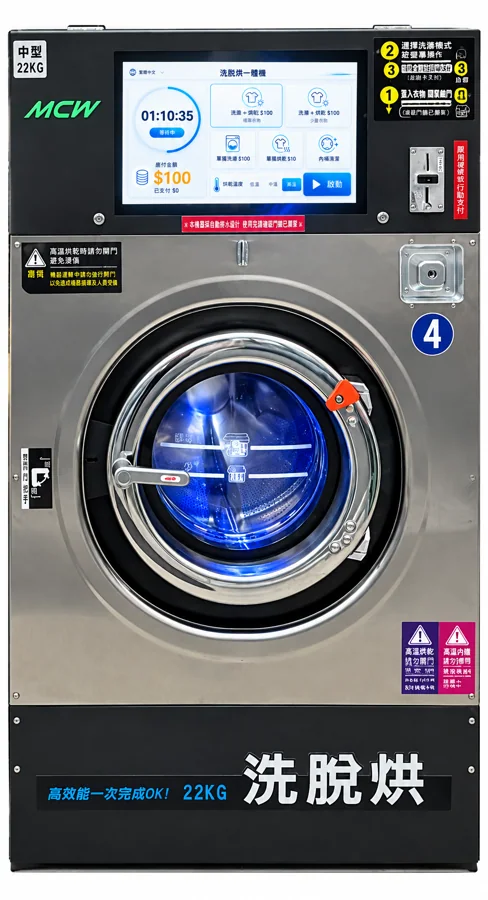
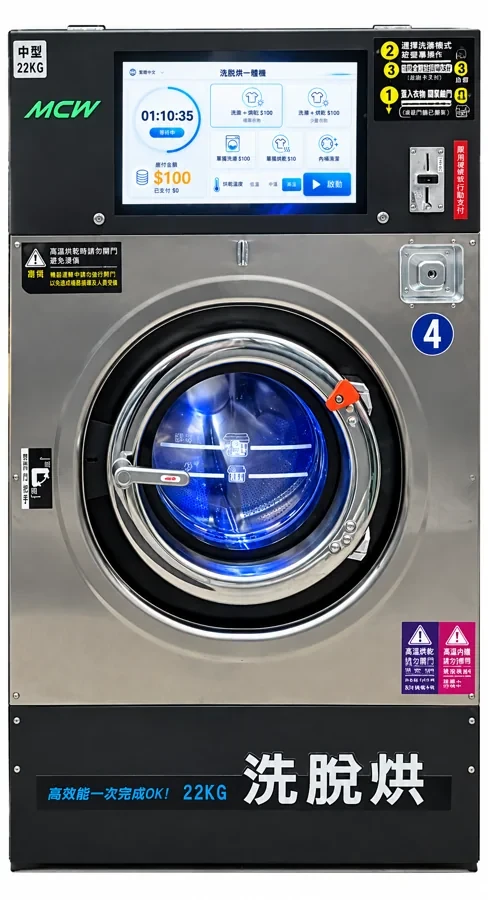
更新洗衣地圖公開名稱、教學入口與加盟頁內容
公開名稱改為 MCW自助洗衣地圖。教學新增會員儲值點數，洗脫烘實拍去掉螢幕下方紅框。加盟頁改用指定六色主圖與藍色 22KG 設備圖，詢問加盟與頁首改接官方 LINE。

Changed region(s): [[0.3689, 0.2178, 0.6455, 0.28], [0.9221, 0.0622, 0.9529, 0.0933]]

diff --git a/laundry-map/src/main.jsx b/laundry-map/src/main.jsx
@@ -62,6 +62,12 @@ const emptyStore = () => ({
   provider: "unconnected",
   providerReference: "",
 });
+const OFFICIAL_LINE_URL = "https://lin.ee/s4v3cIG";
+const BUSINESS_LINE_URL = "https://line.me/ti/p/~mcw27";
+const tutorialCategories = ["洗脫烘", "雙層烘", "付款", "會員儲值點數"];
+function officialLineUrl(settings) {
+  return settings?.lineUrl || OFFICIAL_LINE_URL;
+}
 function LinkButton({ url, children }) {
   return url ? (
     <a className="button" href={url} target="_blank" rel="noopener noreferrer">
@@ -71,6 +77,32 @@ function LinkButton({ url, children }) {
     <span className="button disabled" aria-disabled="true">
       {children}・尚未設定
     </span>
+  );
+}
+function LineMark() {
+  return (
+    <span className="line-mark" aria-hidden="true">
+      <svg viewBox="0 0 24 24">
+        <path
+          fill="#fff"
+          d="M19.365 9.863c.349 0 .63.285.63.631 0 .345-.281.63-.63.63H17.61v1.125h1.755c.349 0 .63.283.63.63 0 .344-.281.629-.63.629h-2.386c-.345 0-.627-.285-.627-.629V8.108c0-.345.282-.63.63-.63h2.386c.346 0 .627.285.627.63 0 .349-.281.63-.63.63H17.61v1.125h1.755zm-3.855 3.016c0 .27-.174.51-.432.596-.064.021-.133.031-.199.031-.211 0-.391-.09-.51-.25l-2.443-3.317v2.94c0 .344-.279.629-.631.629-.346 0-.626-.285-.626-.629V8.108c0-.27.173-.51.43-.595.06-.023.136-.033.194-.033.195 0 .375.104.495.254l2.462 3.33V8.108c0-.345.282-.63.63-.63.345 0 .63.285.63.63v4.771zm-5.741 0c0 .344-.282.629-.631.629-.345 0-.627-.285-.627-.629V8.108c0-.345.282-.63.63-.63.346 0 .628.285.628.63v4.771zm-2.466.629H4.917c-.345 0-.63-.285-.63-.629V8.108c0-.345.285-.63.63-.63.348 0 .63.285.63.63v4.141h1.756c.348 0 .629.283.629.63 0 .344-.282.629-.629.629M24 10.314C24 4.943 18.615.572 12 .572S0 4.943 0 10.314c0 4.811 4.27 8.842 10.035 9.608.391.082.923.258 1.058.59.12.301.079.766.038 1.08l-.164 1.02c-.045.301-.24 1.186 1.049.645 1.291-.539 6.916-4.078 9.436-6.975C23.176 14.393 24 12.458 24 10.314"
+        />
+      </svg>
+    </span>
+  );
+}
+function OfficialLineButton({ url }) {
+  return (
+    <a
+      className="button line-join"
+      href={officialLineUrl({ lineUrl: url })}
+      target="_blank"
+      rel="noopener noreferrer"
+      aria-label="加入官方 LINE"
+    >
+      加入官方
+      <LineMark />
+    </a>
   );
 }
 function Fit({ points, focus, camera }) {
@@ -420,7 +452,7 @@ function StoreDetail({ store: s, settings, onBack, saved, toggle }) {
       if (navigator.share) {
         await navigator.share({
           title: s.name,
-          text: "MCW 洗衣地圖",
+          text: "MCW自助洗衣地圖",
           url: url.href,
         });
         setShareMsg("");
@@ -541,8 +573,8 @@ function StoreDetail({ store: s, settings, onBack, saved, toggle }) {
         <p>本店尚未配置操作教學影片。</p>
       )}
       <h2>一起經營好生活</h2>
-      <LinkButton url={s.franchiseUrl || settings.franchiseUrl}>
-        詢問洗衣加盟
+      <LinkButton url={officialLineUrl(settings)}>
+        詢問加盟
       </LinkButton>
     </section>
   );
@@ -643,10 +675,10 @@ function PublicApp() {
         <a className="brand" href="/">
           <img src="/brand/mcw-round-logo.png" alt="MCW 魔彩正式 Logo" />
           <span>
-            洗衣地圖<small>LAUNDRY MAP</small>
+            MCW自助洗衣地圖<small>LAUNDRY MAP</small>
           </span>
         </a>
-        <LinkButton url={settings.lineUrl}>官方 LINE</LinkButton>
+        <OfficialLineButton url={settings.lineUrl} />
       </header>
       <main
         className={
@@ -912,10 +944,10 @@ function PublicApp() {
                 </div>
                 <p className="eyebrow">MCW HOW-TO</p>
                 <h2>你的洗衣小幫手</h2>
-                {["洗脫烘", "雙層烘", "付款"].map((cat) => (
+                {tutorialCategories.map((cat, index) => (
                   <article className="tutorial" key={cat}>
                     <span className="tutorial-icon" aria-hidden="true">
-                      {cat === "洗脫烘" ? "01" : cat === "雙層烘" ? "02" : "03"}
+                      {String(index + 1).padStart(2, "0")}
                     </span>
                     <div>
                       <h3>{cat}操作教學</h3>
@@ -949,14 +981,11 @@ function PublicApp() {
               <section className="content-panel franchise">
                 <figure className="franchise-photo">
                   <img
-                    src="/brand/hualien-store-1.webp"
-                    alt="交接包提供的花蓮門市外觀實拍"
-                    width="1100"
-                    height="825"
+                    src="/brand/community-lineup.webp"
+                    alt="MCW 洗脫烘一體機，16、22、27、35KG，不鏽鋼色、珍珠白、無限藍、鈦銀、寶石紅、宇宙黑"
+                    width="1672"
+                    height="941"
                   />
-                  <figcaption>
-                    花蓮門市實拍 · 地址與營運資訊待總部確認
-                  </figcaption>
                 </figure>
                 <p className="eyebrow">START YOUR MCW JOURNEY</p>
                 <h2>
@@ -968,14 +997,52 @@ function PublicApp() {
                   想了解 MCW
                   洗衣設備、開店流程與加盟資訊？透過總部指定管道，開始你的開店計畫。
                 </p>
-                <LinkButton url={settings.franchiseUrl}>
-                  詢問洗衣加盟
+                <div className="franchise-pitch">
+                  <p>💎為什麼選擇 MCW 洗脫烘？</p>
+                  <p>
+                    頂級商用規格：機種款式尺寸齊全（16、22、27、35KG），多款時尚美學色彩供選擇（珍珠白、無限藍、鈦銀、寶石紅、宇宙黑、不銹鋼色）。
+                  </p>
+                  <p>
+                    💎 國際品質認證：通過 CE、ISO 9001、ISO 45001、ISO 14001
+                    國際認證，擁有多項技術專利，成功打入美國市場的高品質外銷機種。高效節能耐用，專為商用專業首選打造，讓洗衣體驗更聰明、更美好。
+                  </p>
+                  <p>💎 誠摯邀請您加入加盟合作行列！</p>
+                  <p className="franchise-contacts">
+                    <a
+                      href={officialLineUrl(settings)}
+                      target="_blank"
+                      rel="noopener noreferrer"
+                    >
+                      加入官方LINE：@mcw27
+                    </a>
+                    <a
+                      href={BUSINESS_LINE_URL}
+                      target="_blank"
+                      rel="noopener noreferrer"
+                    >
+                      業務LINE：mcw27
+                    </a>
+                    <a href="tel:077881902">加盟專線：07-788-1902</a>
+                  </p>
+                </div>
+                <figure className="franchise-equipment">
+                  <img
+                    src="/brand/mcw-22kg-blue.webp"
+                    alt="MCW 22KG 洗脫烘一體機"
+                    width="923"
+                    height="1704"
+                  />
+                </figure>
+                <LinkButton url={officialLineUrl(settings)}>
+                  詢問加盟
                 </LinkButton>
                 <div className="brand-guide">
                   <img src="/brand/mcw-cat.webp" alt="MCW 藍白貓咪吉祥物" />
                   <p>
                     從空間規劃到設備選擇，
                     <br />與 MCW 一起打造社區的洗衣好鄰居。
+                    <br />
+                    加盟MCW就是你的最佳選擇!
                   </p>
                 </div>
                 <p className="muted">
@@ -1561,7 +1628,7 @@ function Admin() {
                       updateItem("tutorials", i, "category", e.target.value)
                     }
                   >
-                    {["洗脫烘", "雙層烘", "付款"].map((x) => (
+                    {tutorialCategories.map((x) => (
                       <option key={x}>{x}</option>
                     ))}
                   </select>

diff --git a/laundry-map/src/style.css b/laundry-map/src/style.css
@@ -105,6 +105,22 @@ header {
   background: #091a30;
   gap: 16px;
 }
+.line-join {
+  flex: none;
+}
+.line-mark {
+  display: inline-grid;
+  place-items: center;
+  width: 22px;
+  height: 22px;
+  border-radius: 6px;
+  background: #06c755;
+}
+.line-mark svg {
+  width: 16px;
+  height: 16px;
+  display: block;
+}
 .brand {
   display: flex;
   align-items: center;
@@ -970,8 +986,38 @@ header {
 }
 .franchise-photo img {
   width: 100%;
-  height: 320px;
-  object-fit: cover;
+  height: auto;
+  object-fit: contain;
+  display: block;
+  background: #06101c;
+}
+.franchise-pitch {
+  display: grid;
+  gap: 10px;
+  margin: 8px 0 18px;
+}
+.franchise-pitch p {
+  margin: 0;
+  overflow-wrap: anywhere;
+}
+.franchise-contacts {
+  display: grid;
+  gap: 2px;
+}
+.franchise-contacts a {
+  display: inline-flex;
+  align-items: center;
+  width: fit-content;
+  max-width: 100%;
+  min-height: 44px;
+}
+.franchise-equipment {
+  width: min(100%, 420px);
+  margin: 4px auto 22px;
+}
+.franchise-equipment img {
+  width: 100%;
+  height: auto;
   display: block;
 }
 .franchise-photo figcaption {
@@ -1053,14 +1099,21 @@ header {
 @media (max-width: 700px) {
   header {
     padding: 10px 16px;
-    height: 68px;
+    height: auto;
+    min-height: 68px;
   }
   .brand > img {
     width: 42px;
     height: 42px;
   }
   .brand {
-    font-size: 0.95rem;
+    font-size: 0.82rem;
+    gap: 8px;
+    min-width: 0;
+  }
+  .line-join {
+    padding: 8px 10px;
+    font-size: 0.85rem;
   }
   .map-page {
     padding: 0 12px 24px;
@@ -1282,8 +1335,11 @@ header {
   }
   .franchise-photo img {
     height: auto;
-    aspect-ratio: 4 / 3;
+    aspect-ratio: auto;
     object-fit: contain;
+  }
+  .franchise-pitch p {
+    font-size: 0.92rem;
   }
   .franchise-photo figcaption {
     font-size: 0.62rem;

diff --git a/laundry-map/tests/app.test.js b/laundry-map/tests/app.test.js
@@ -175,6 +175,30 @@ test("image upload decodes actual bytes, strips metadata and rejects malformed i
   assert.equal(response.status, 200);
   assert.match(response.headers.get("content-type"), /webp/);
 });
+test("member points tutorial category is allowed and still requires YouTube", () => {
+  assert.equal(
+    storeSchema.safeParse({
+      ...doc,
+      tutorials: [
+        {
+          category: "會員儲值點數",
+          title: "儲值教學",
+          url: "https://www.youtube.com/watch?v=dQw4w9WgXcQ",
+        },
+      ],
+    }).success,
+    true,
+  );
+  assert.equal(
+    storeSchema.safeParse({
+      ...doc,
+      tutorials: [
+        { category: "會員儲值點數", title: "儲值教學", url: "https://example.com/v" },
+      ],
+    }).success,
+    false,
+  );
+});
 test("URL validation rejects executable URLs and non-YouTube tutorials", () => {
   assert.equal(
     storeSchema.safeParse({ ...doc, aiUrl: "javascript:alert(1)" }).success,

diff --git a/laundry-map/index.html b/laundry-map/index.html
@@ -4,7 +4,10 @@
     <meta charset="UTF-8" />
     <meta name="viewport" content="width=device-width,initial-scale=1" />
     <meta name="theme-color" content="#071529" />
-    <title>MCW 洗衣地圖</title>
+    <meta name="application-name" content="MCW自助洗衣地圖" />
+    <meta name="description" content="MCW自助洗衣地圖" />
+    <meta property="og:title" content="MCW自助洗衣地圖" />
+    <title>MCW自助洗衣地圖</title>
   </head>
   <body>
     <div id="root"></div>

diff --git a/laundry-map/server/model.js b/laundry-map/server/model.js
@@ -65,7 +65,7 @@ export const storeSchema = z
     tutorials: z
       .array(
         z.object({
-          category: z.enum(["洗脫烘", "雙層烘", "付款"]),
+          category: z.enum(["洗脫烘", "雙層烘", "付款", "會員儲值點數"]),
           title: z.string().min(1).max(100),
           url: youtube.refine(Boolean),
         }),
